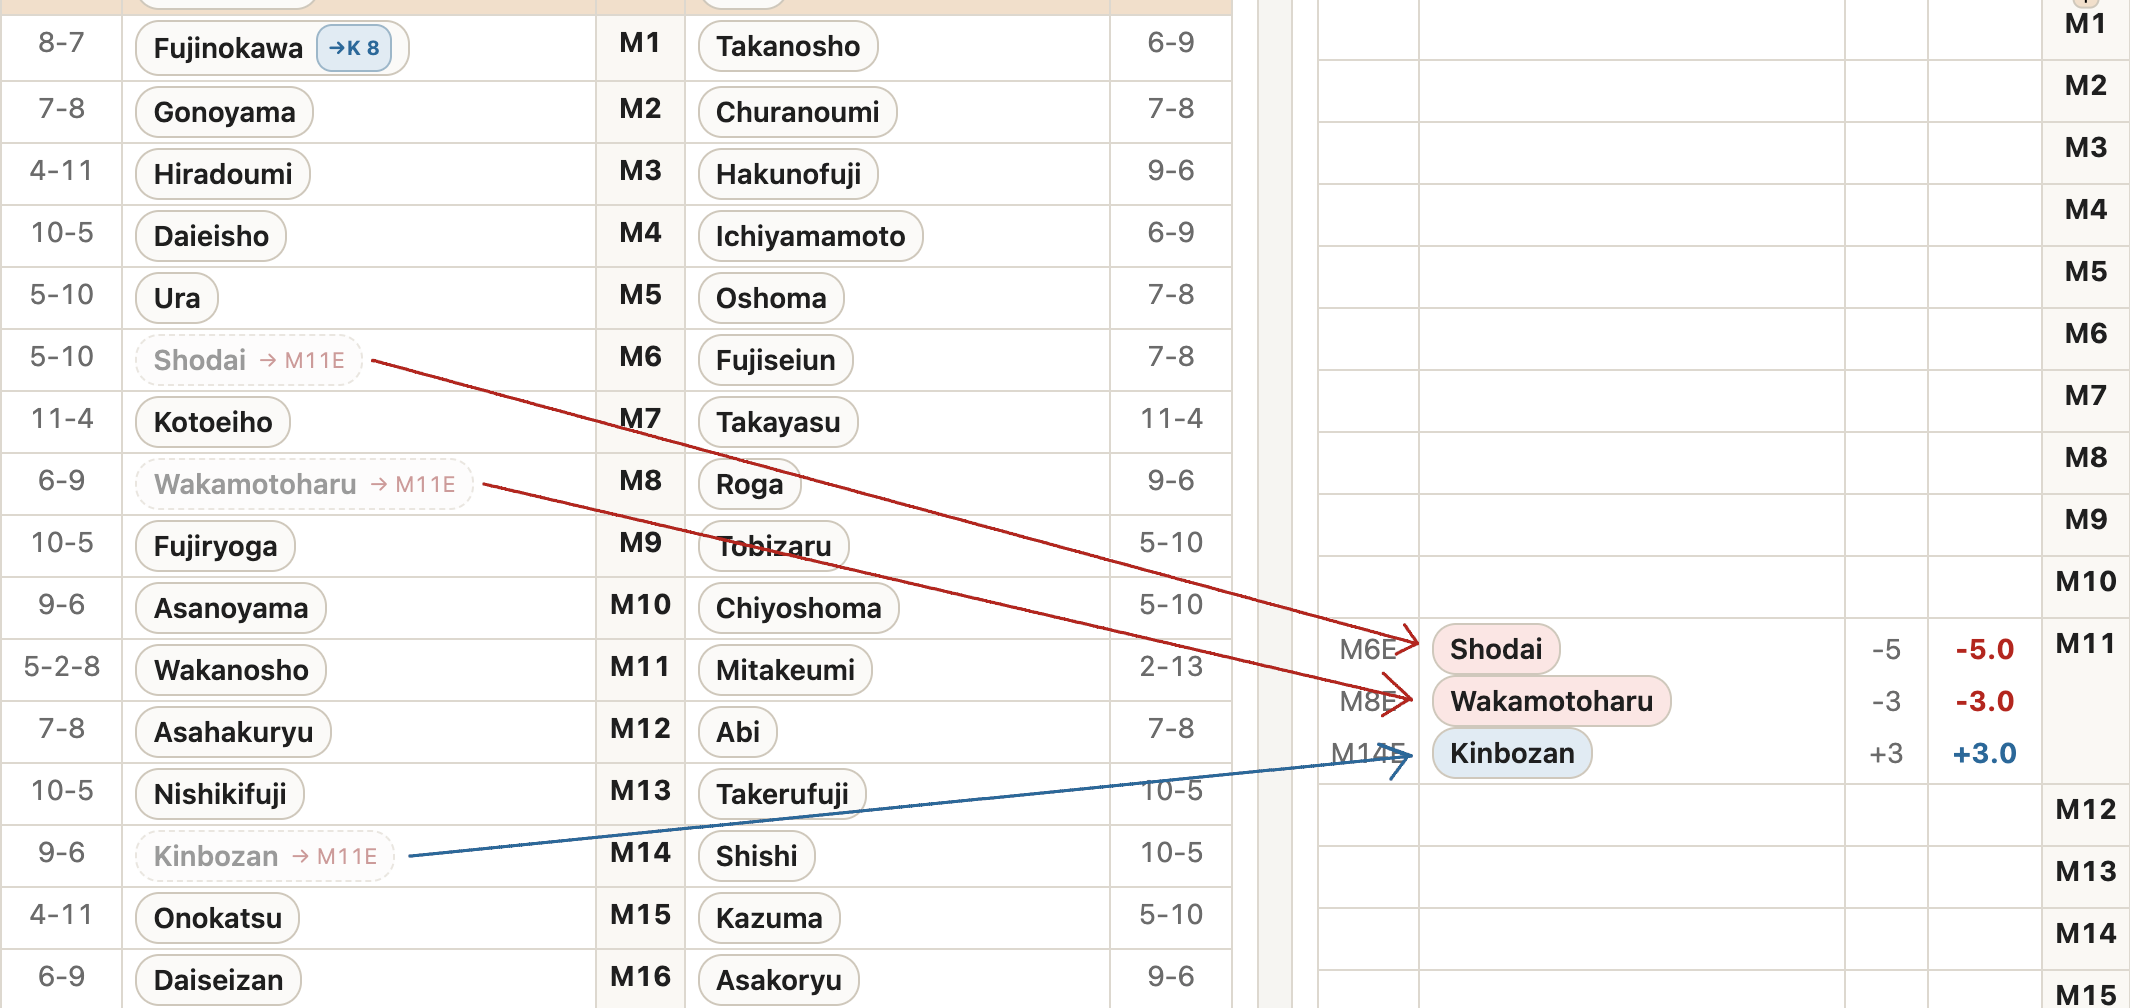
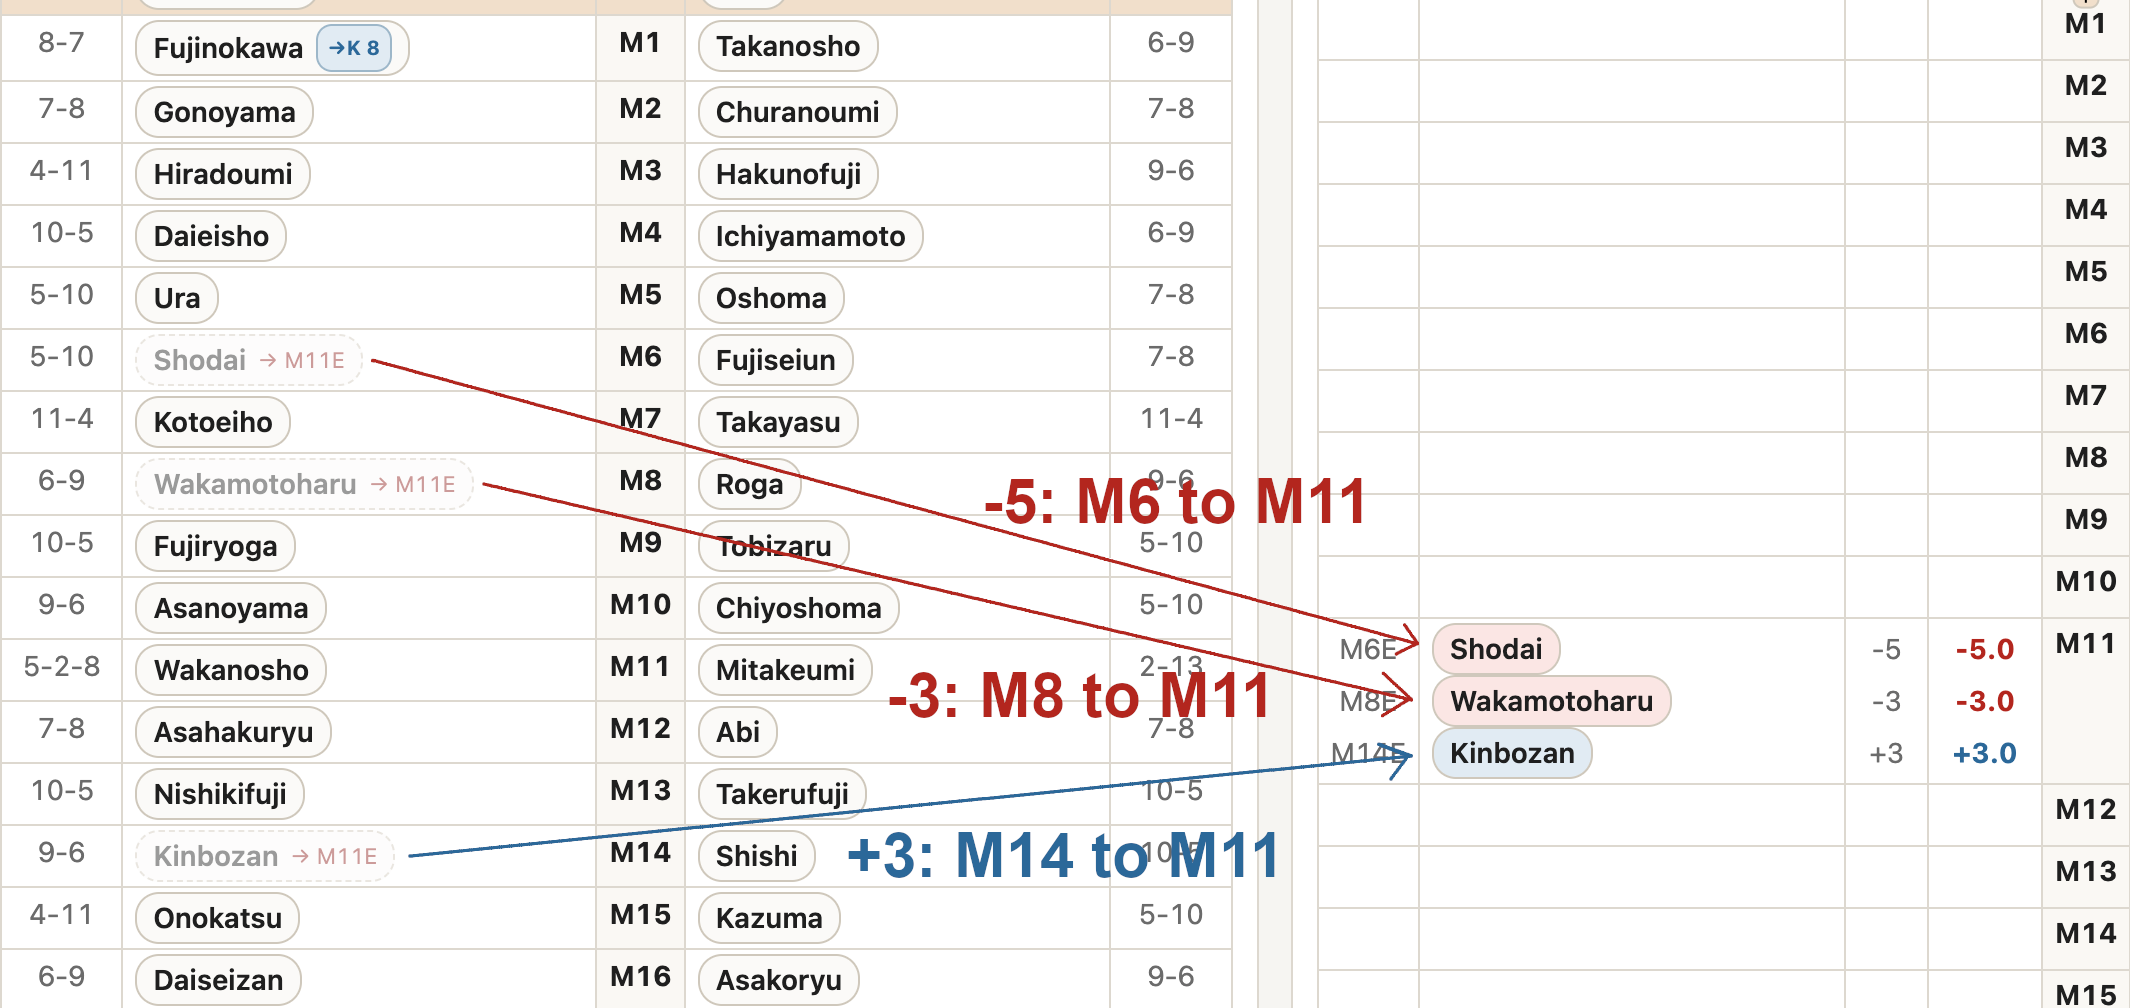
info page content

Changed region(s): [[0.4648, 0.4613, 0.6507, 0.5228], [0.4028, 0.8304, 0.6197, 0.8919], [0.4028, 0.6458, 0.6197, 0.7073]]

diff --git a/public/index.html b/public/index.html
@@ -129,8 +129,8 @@
       <div class="about-section">
         <div class="about-text">
           <h2>What is this Site?</h2>
-          <p>This site is a tool to assist sumo fans playing a game where we guess what the new wrestler rankings will be after a tournament finishes.</p>
-          <p>The rankings are ultimately subjective, decided by the Japanese Sumo Association. There are some general rules used however, and this app assists with calculations and highlighting information relevant to these rules, in addition to providing a nice clean interface for organizing picks.</p>
+          <p>This site is a tool to assist sumo fans playing a game where we guess what the new wrestler rankings will be after a tournament finishes. The official ranking of wrestlers (rikishi) going into a tournament is called a banzuke.</p>
+          <p>The rankings are ultimately subjective decisions by the Japanese Sumo Association. There are some general rules used however, and this app assists with calculations and highlighting information relevant to these rules, in addition to providing a convenient interface for organizing picks.</p>
         </div>
         <figure class="about-media">
           <img src="resources/images/Banzuke.jpg" alt="An official banzuke">
@@ -140,8 +140,7 @@
       <div class="about-section">
         <div class="about-text">
           <h2>Sumo Rankings Explained</h2>
-          <p>The official ranking of wrestlers (rikishi) going into a tournament of professional sumo is called a banzuke.</p>
-          <p>There are 7 divisions in sumo, with most fan focus on the top division: Makuuchi. The ranks at the top of makuuchi have special names (yokozuna, ozeki, sekiwake, komusubi) and are called "titled ranks". The rest of the slots are the standard rank-and-file ranks, called maegashira, which forms the bulk of the division.</p>
+          <p>There are 6 divisions in sumo, with most fan focus on the top division: Makuuchi. The ranks at the top of makuuchi are special "titled" ranks with their own names (yokozuna, ozeki, sekiwake, komusubi). The rest of the slots are the standard rank-and-file ranks, called maegashira, which form the bulk of the division.</p>
           <p>Each row of the banzuke has two rikishi slots: East and West. The East slot is considered a half step up from its West slot, otherwise there's not much major significance. Example: Maegashira 1 East &gt; Maegashira 1 West &gt; Maegashira 2 East.</p>
           <p>A new banzuke is created after each tournament based on the performances of each rikishi.</p>
         </div>
@@ -153,7 +152,7 @@
         <div class="about-text">
           <h2>The Main Rule of Rank Change</h2>
           <p>The main principle of forming the new banzuke is that if a rikishi wins more than they lose they should move up the banzuke, and if they lose more than they win they should move down the banzuke. Each rikishi has 15 bouts in a tournament, so there aren't ties (absences are treated as losses). Furthermore, the more winning you do the more you should move up, and vice versa.</p>
-          <p>So, the general calculation is that you take a rikishi's net wins in the past tournament and should ideally move up or down by that number of rows. Moving west to east / east to west is considered half a row, so a 8-7 rikishi (+1 net wins) at Maegashira #4 East (M4E) should move to Maegashira #3 East (M3E). A 5-10 rikishi (-5 net wins) at M2W should move to M7W.</p>
+          <p>So, the general calculation is that you take a rikishi's net wins in the past tournament and you ideally move up or down by that number of rows. Moving west to east / east to west is considered half a row, so a 8-7 rikishi (+1 net wins) at Maegashira #4 East (M4E) should move to Maegashira #3 East (M3E). A 5-10 rikishi (-5 net wins) at M2W should move to M7W.</p>
           <p>However, using this system there are constantly gaps and conflicts. For example, if there's a 8-7 rikishi at M4E and a 9-6 rikishi at M5E, both of these rikishi are supposed to land at M3E. Only one rikishi can hold that slot, so it's up to the Association to decide which of them gets it and what to do with the other guy — it could be under-promotion, over-promotion, and in some cases rikishi simply stay where they already are.</p>
         </div>
         <figure class="about-media">
